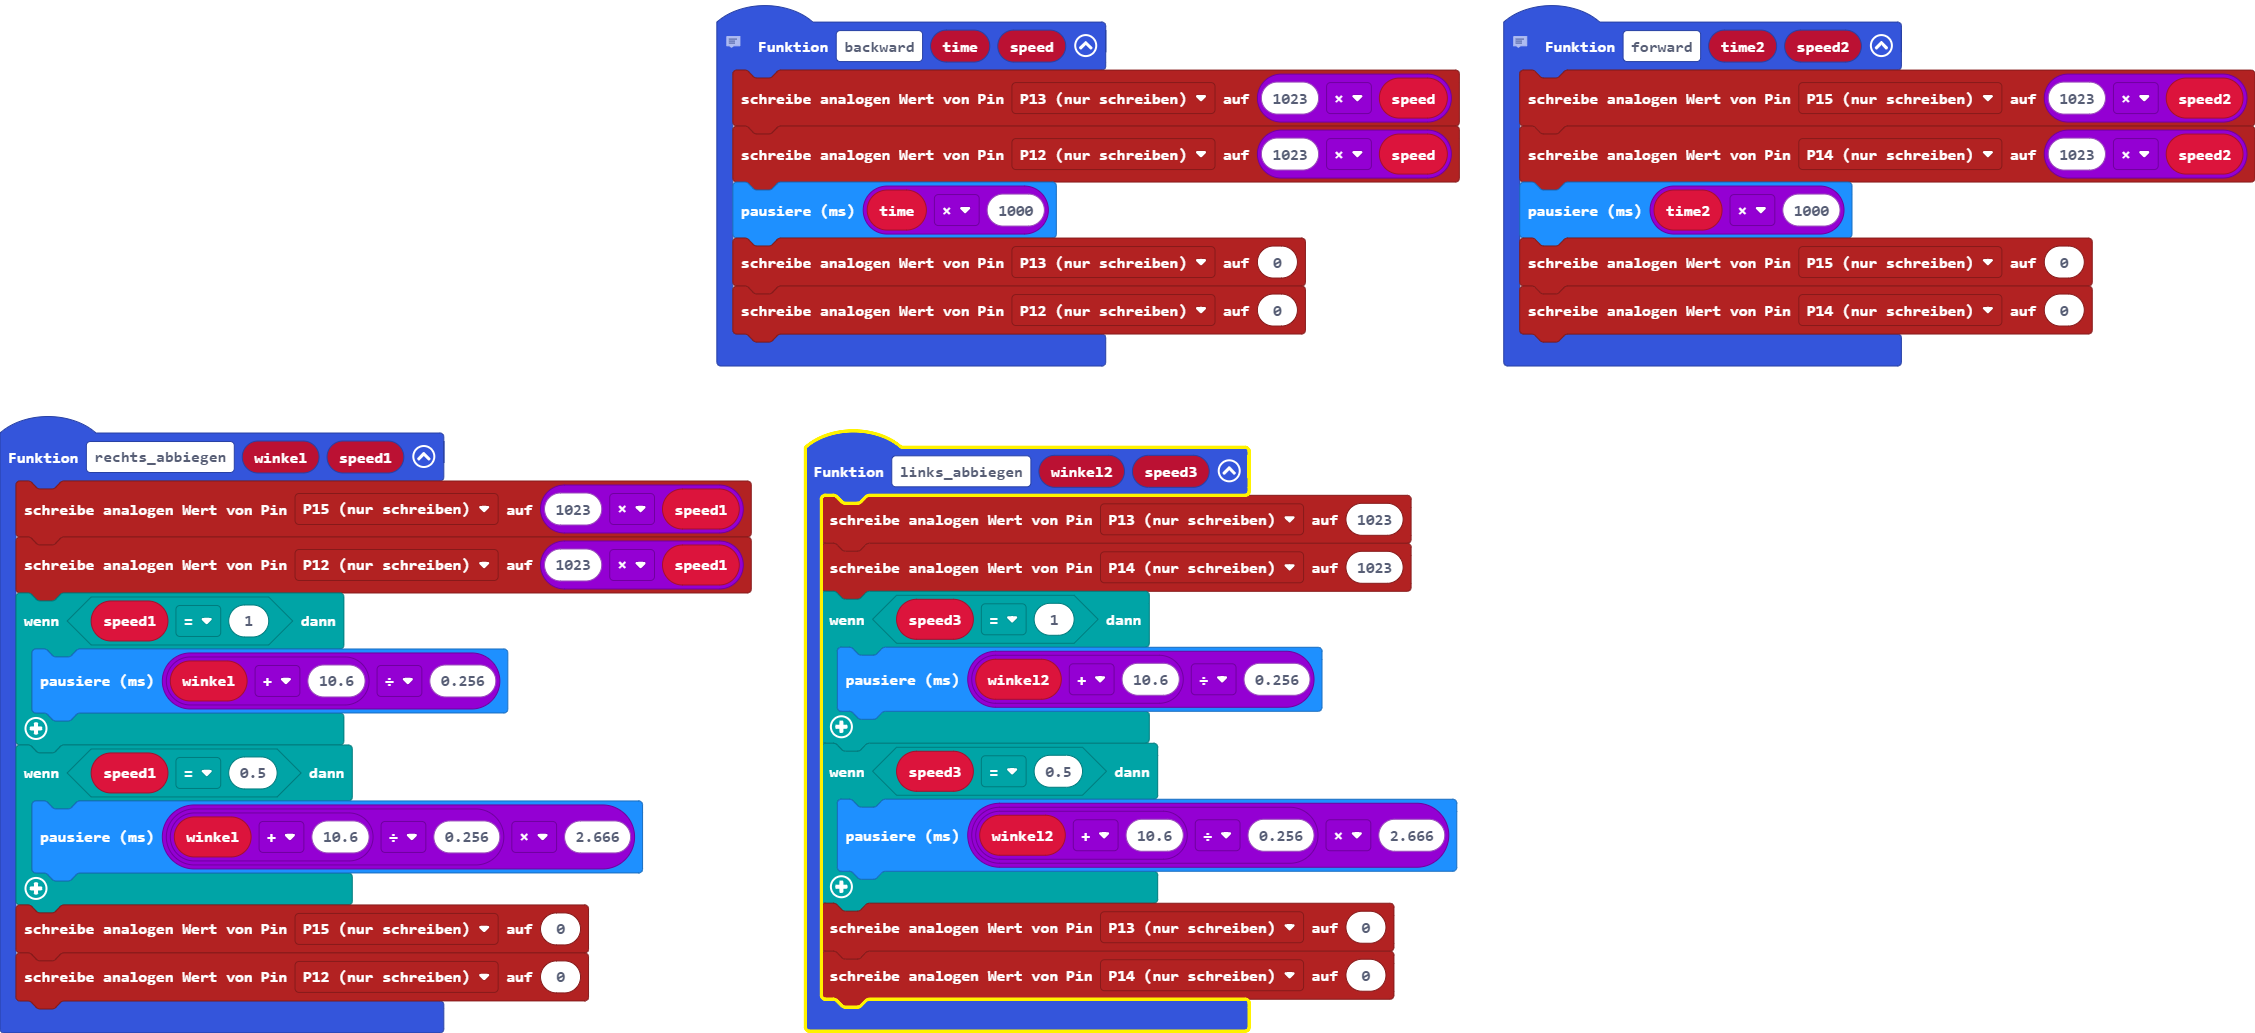
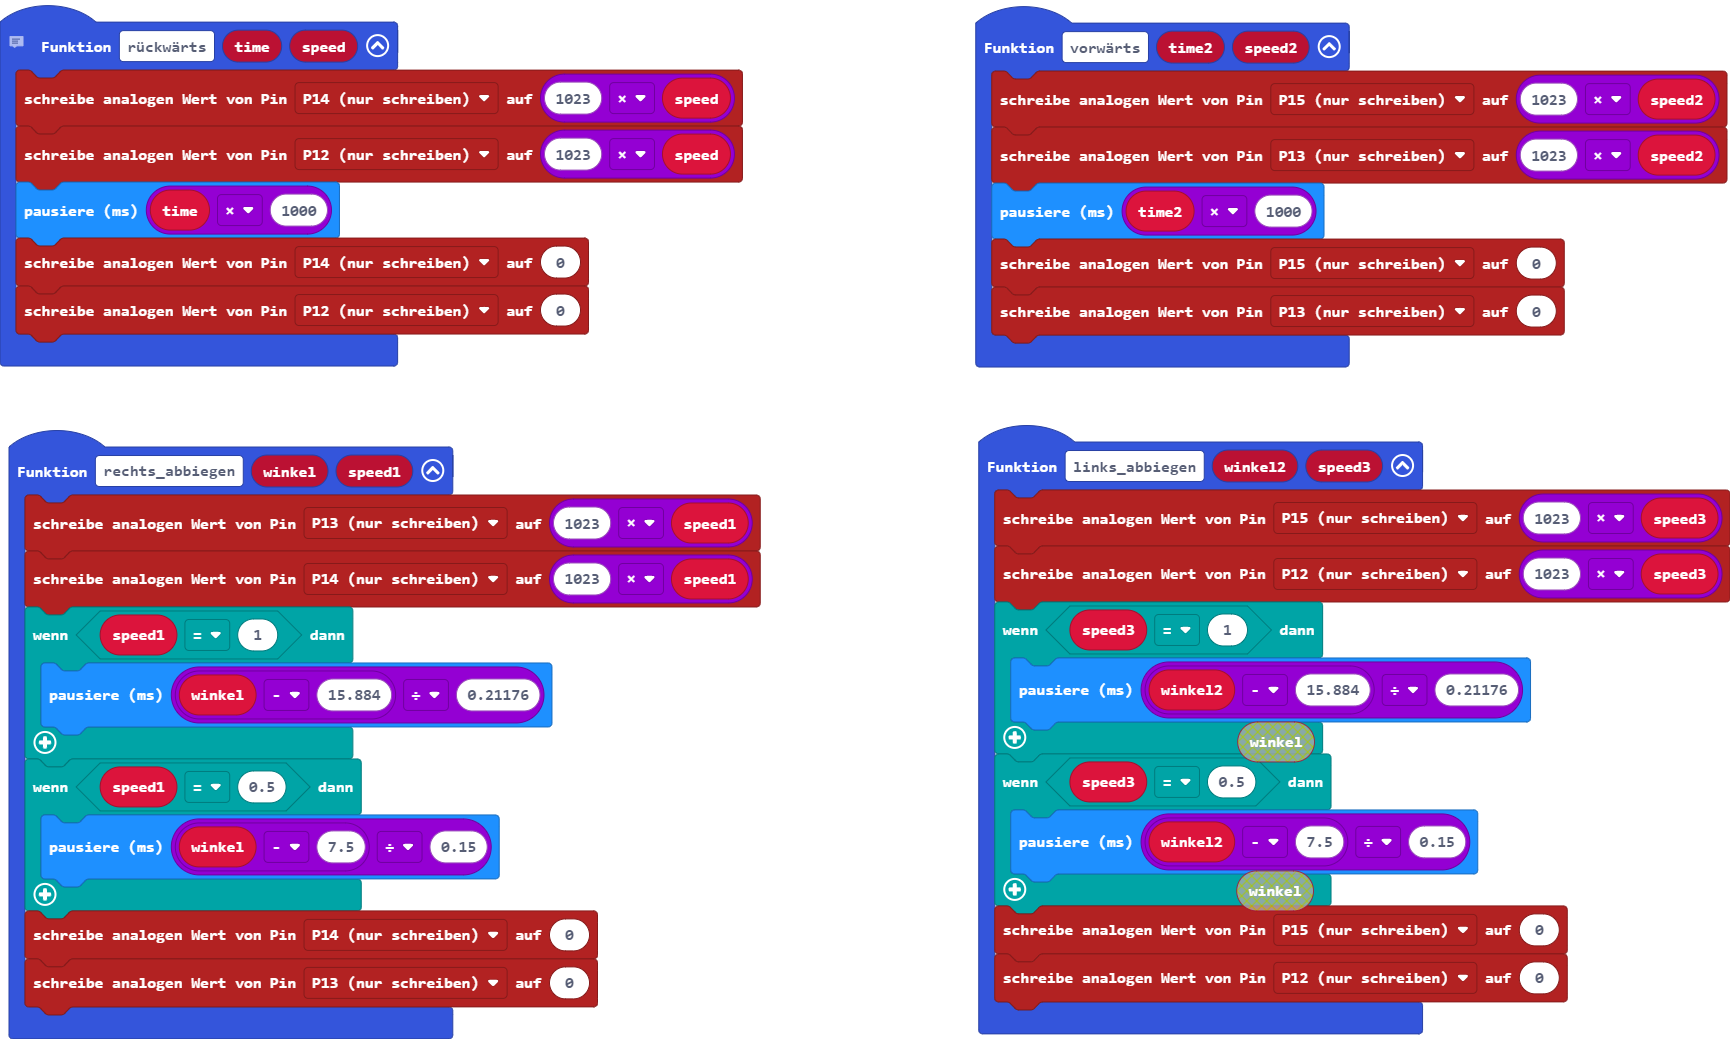
Aktualisiere pxt.json, main.blocks, main.ts

diff --git a/main.ts b/main.ts
@@ -1,54 +1,46 @@
-//  forward & backward time in sekunden angeben wie lange fahren,
-//  speed wie schnell 1 = vollgas 0.5 = halbgas
-//  abbiegen: winkel in grad angeben 0 - 360
-//  15 cm bei 0.5s und 1 speed
-//  6.5cm bei 0.5s und 0.5 speed
-// Von vorne schauen
-// P14 = links rückwärts, P15 links vorwärts
-// P13 = rechts vorwärts, P12 = rechts rückwärts
-function backward(time: number, speed: number) {
-    pins.analogWritePin(AnalogPin.P14, 1023 * speed)
-    pins.analogWritePin(AnalogPin.P12, 1023 * speed)
-    basic.pause(time * 1000)
-    pins.analogWritePin(AnalogPin.P14, 0)
-    pins.analogWritePin(AnalogPin.P12, 0)
-}
-
-function rechts_abbiegen(winkel: number, speed1: number) {
-    pins.analogWritePin(AnalogPin.P13, 1023 * speed1)
-    pins.analogWritePin(AnalogPin.P14, 1023 * speed1)
-    if (speed1 == 1) {
-        basic.pause((winkel + 10.6) / 0.256)
-    }
-    
-    if (speed1 == 0.5) {
-        basic.pause((winkel + 10.6) / 0.256 * 2.666)
-    }
-    
-    pins.analogWritePin(AnalogPin.P14, 0)
-    pins.analogWritePin(AnalogPin.P13, 0)
-}
-
-function forward(time2: number, speed2: number) {
+function vorwärts (time2: number, speed2: number) {
     pins.analogWritePin(AnalogPin.P15, 1023 * speed2)
     pins.analogWritePin(AnalogPin.P13, 1023 * speed2)
     basic.pause(time2 * 1000)
     pins.analogWritePin(AnalogPin.P15, 0)
     pins.analogWritePin(AnalogPin.P13, 0)
 }
-
-function links_abbiegen(winkel2: number, speed3: number) {
+// forward & backward time in sekunden angeben wie lange fahren,
+// speed wie schnell 1 = vollgas 0.5 = halbgas
+// abbiegen: winkel in grad angeben 0 - 360
+// 15 cm bei 0.5s und 1 speed
+// 6.5cm bei 0.5s und 0.5 speed
+// Von vorne schauen
+// P14 = links rückwärts, P15 links vorwärts
+// P13 = rechts vorwärts, P12 = rechts rückwärts
+function rückwärts (time: number, speed: number) {
+    pins.analogWritePin(AnalogPin.P14, 1023 * speed)
+    pins.analogWritePin(AnalogPin.P12, 1023 * speed)
+    basic.pause(time * 1000)
+    pins.analogWritePin(AnalogPin.P14, 0)
+    pins.analogWritePin(AnalogPin.P12, 0)
+}
+function rechts_abbiegen (winkel: number, speed1: number) {
+    pins.analogWritePin(AnalogPin.P13, 1023 * speed1)
+    pins.analogWritePin(AnalogPin.P14, 1023 * speed1)
+    if (speed1 == 1) {
+        basic.pause((winkel - 15.884) / 0.21176)
+    }
+    if (speed1 == 0.5) {
+        basic.pause((winkel - 7.5) / 0.15)
+    }
+    pins.analogWritePin(AnalogPin.P14, 0)
+    pins.analogWritePin(AnalogPin.P13, 0)
+}
+function links_abbiegen (winkel2: number, speed3: number) {
     pins.analogWritePin(AnalogPin.P15, 1023 * speed3)
     pins.analogWritePin(AnalogPin.P12, 1023 * speed3)
     if (speed3 == 1) {
-        basic.pause((winkel2 + 10.6) / 0.256)
+        basic.pause((winkel2 - 15.884) / 0.21176)
     }
-    
     if (speed3 == 0.5) {
-        basic.pause((winkel2 + 10.6) / 0.256 * 2.666)
+        basic.pause((winkel2 - 7.5) / 0.15)
     }
-    
     pins.analogWritePin(AnalogPin.P15, 0)
     pins.analogWritePin(AnalogPin.P12, 0)
 }
-
